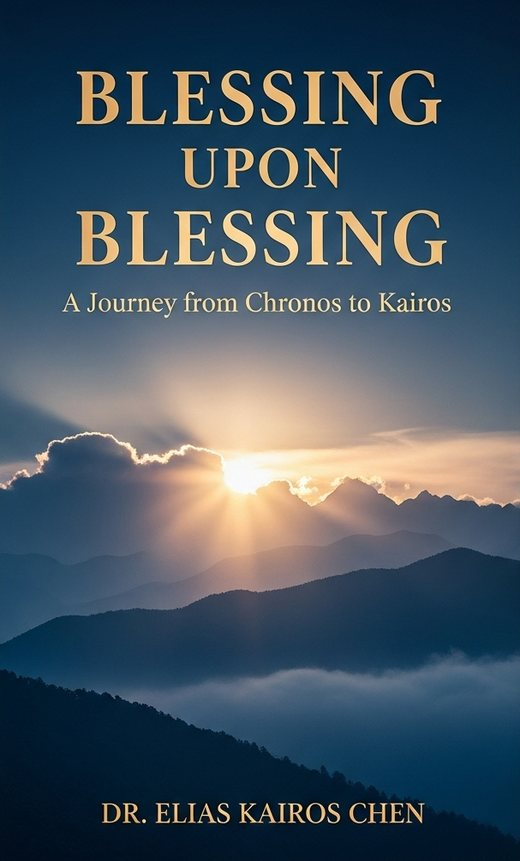
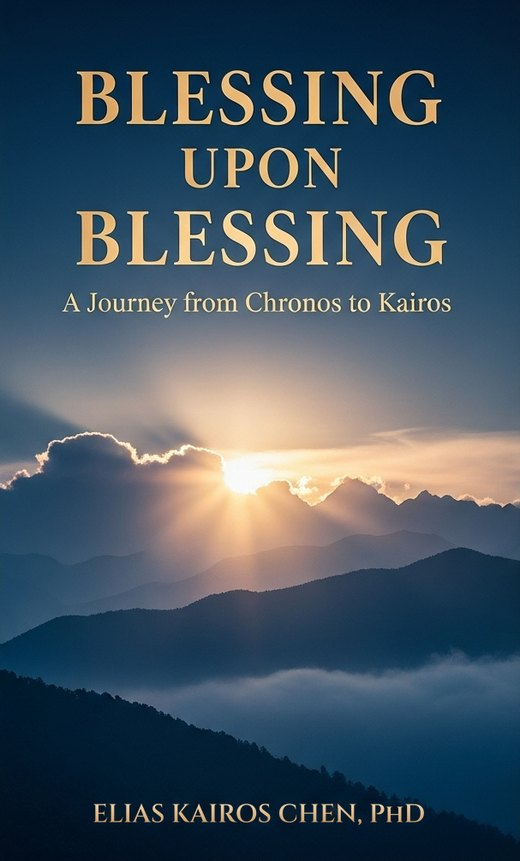
Preview: use PhD byline on the memoir cover and shorten the author bio
Claude-Session: https://claude.ai/code/session_01R46onHtRmWDSxy9MmZLcxr

Changed region(s): [[0.1846, 0.9059, 0.8308, 0.9663]]

diff --git a/preview/index.html b/preview/index.html
@@ -294,8 +294,7 @@ footer .row{display:flex;flex-wrap:wrap;gap:8px 20px}
     <div>
       <h2 style="margin-bottom:16px">About the author</h2>
       <div class="stack">
-        <p>Elias Kairos Chen, PhD, was born Chen Jin Jin (<span lang="zh-Hans">陈进金</span>) in Singapore, the youngest of eleven children in a family steeped in ancestor worship. He holds a PhD in artificial intelligence, specializing in neuromorphic computing, which he completed at age 59 after a career in technology and business.</p>
-        <p>He lives between Singapore, New Zealand and the Philippines with his wife, a consultant neurologist. He also writes on Scripture and emerging technology at <a href="https://eliaskairos-chen.com">eliaskairos-chen.com</a>.</p>
+        <p>Elias Kairos Chen, PhD, holds a doctorate in Computational Neuromorphic Computing. He is also the author of <em>Ancient Prophecy Meets AI Revolution</em>. He writes at <a href="https://eliaskairos-chen.com">eliaskairos-chen.com</a>.</p>
       </div>
     </div>
     <aside class="church">
